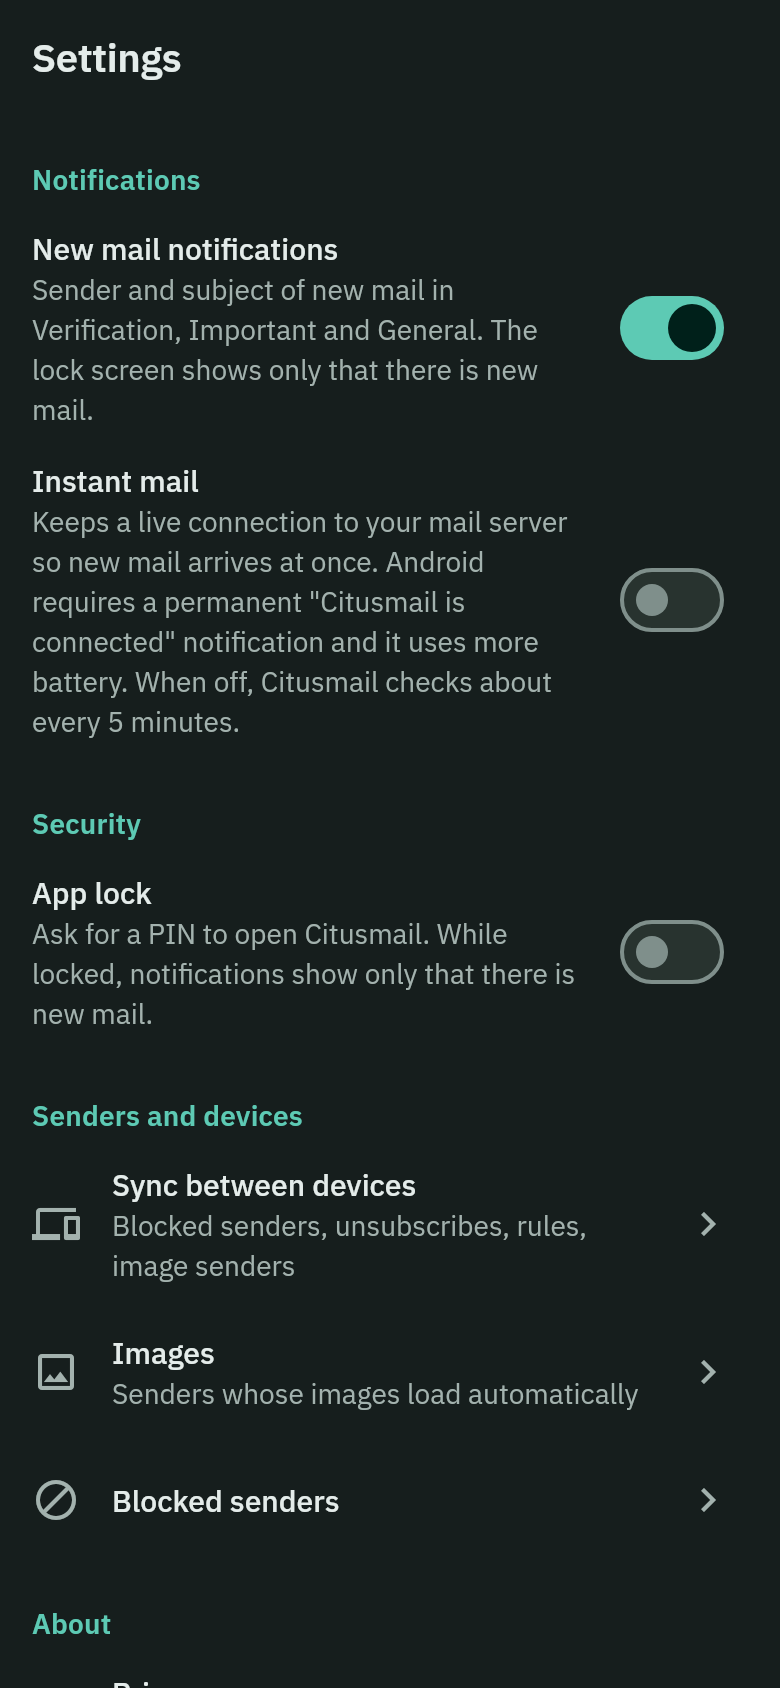
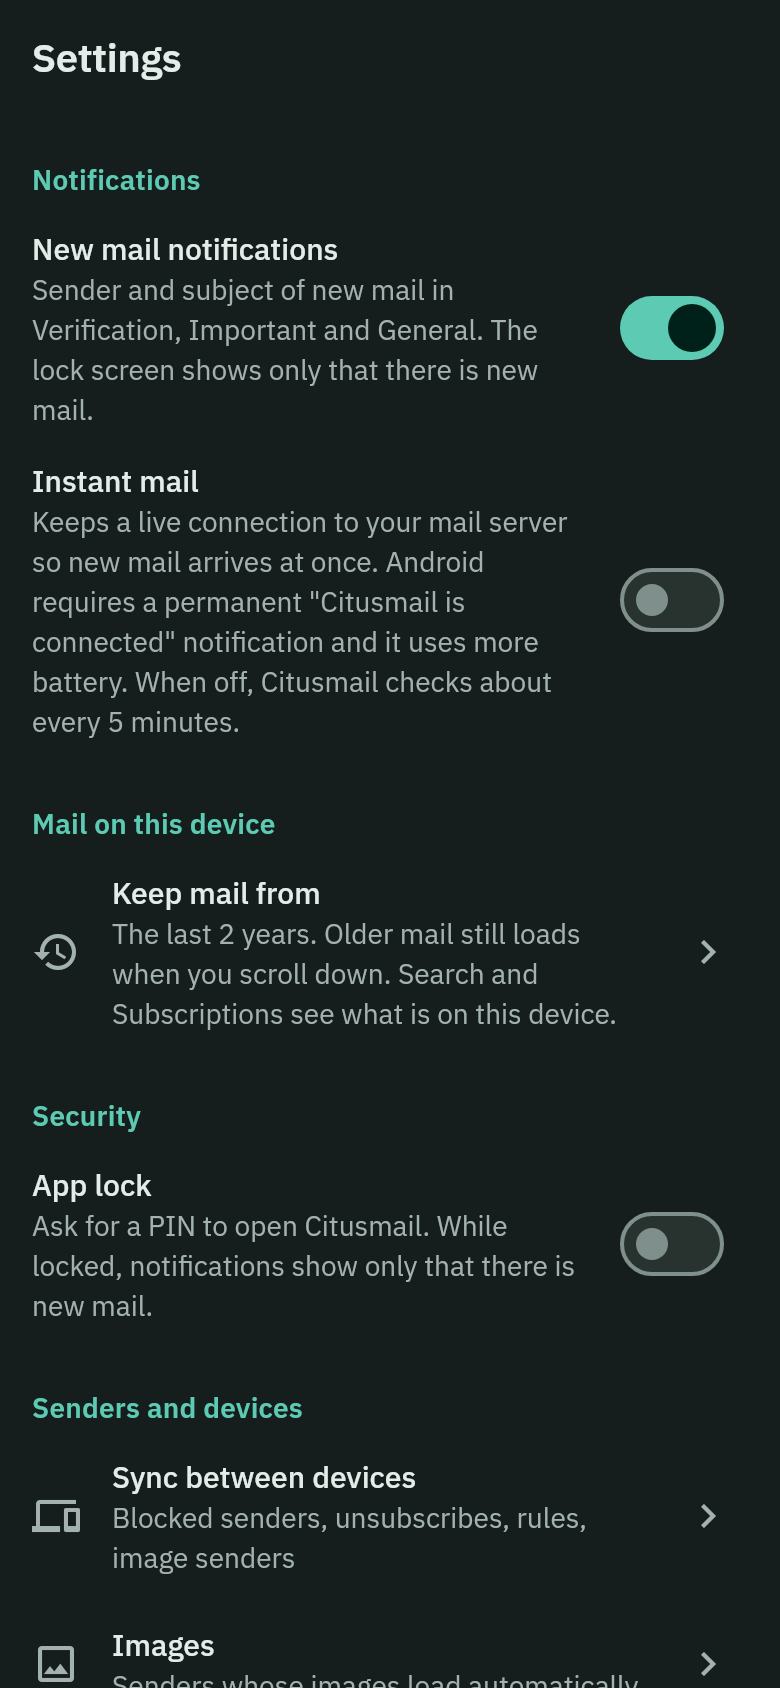
Sync: fill in older mail in the background; "Keep mail from" setting
A folder's first sync downloads its newest 500 messages, and older mail
came only by scrolling to the bottom of a list. A large Gmail inbox
showed 550 messages, and Search and Subscriptions never saw the rest.

Now each later sync also downloads up to 500 older messages per folder
(headers and previews; whole messages still download when opened), until
the folder reaches back to the date chosen in Settings > Mail on this
device > Keep mail from: the last 3 months, year, 2 years (default) or
everything. Scrolling further still loads older mail.

Older mail has lower UIDs than the new-mail mark, so it never notifies.
Integration test: syncs fill in a folder a batch at a time, then stop.

Claude-Session: https://claude.ai/code/session_014i6HAP1iNv3q6sAUqpys6p

diff --git a/packages/mail_sync/lib/src/mailbox_synchronizer.dart b/packages/mail_sync/lib/src/mailbox_synchronizer.dart
@@ -9,14 +9,53 @@ import 'summary_mapper.dart';
 
 /// Tuning for message sync.
 final class SyncSettings {
-  const SyncSettings({this.initialWindow = 500, this.fetchBatch = 100});
+  const SyncSettings({
+    this.initialWindow = 500,
+    this.fetchBatch = 100,
+    this.backfillBatch = 500,
+  });
 
-  /// Newest messages downloaded on a folder's first sync; older ones are
-  /// fetched on demand with [MailboxSynchronizer.fetchOlder].
+  /// Newest messages downloaded on a folder's first sync. Older ones
+  /// follow on later syncs, [backfillBatch] at a time, back to what
+  /// [KeepMail] says; and on demand with [MailboxSynchronizer.fetchOlder].
   final int initialWindow;
 
   /// Messages per FETCH and per stored transaction.
   final int fetchBatch;
+
+  /// Older messages downloaded per folder per sync, until the folder
+  /// reaches back to [KeepMail]'s date.
+  final int backfillBatch;
+}
+
+/// How far back mail is kept on the device (summaries: headers and a
+/// preview; whole messages download when opened). The user's choice, in
+/// the settings under [key].
+enum KeepMail {
+  threeMonths('3m', 91),
+  year('1y', 366),
+  twoYears('2y', 731),
+  everything('all', null);
+
+  const KeepMail(this.storageName, this._days);
+
+  final String storageName;
+  final int? _days;
+
+  static const key = 'sync.keepMail';
+  static const standard = KeepMail.twoYears;
+
+  static KeepMail read(MailStore store) {
+    final value = store.settings.read(key);
+    return values.firstWhere(
+      (k) => k.storageName == value,
+      orElse: () => standard,
+    );
+  }
+
+  /// The oldest date kept, or null for everything.
+  DateTime? since(DateTime now) =>
+      _days == null ? null : now.subtract(Duration(days: _days));
 }
 
 /// How a folder was synchronised.
@@ -42,21 +81,28 @@ final class MailboxSyncResult {
     this.updated = 0,
     this.removed = 0,
     this.wasReset = false,
+    this.backfilled = 0,
   });
 
   final SyncMethod method;
+
+  /// New messages.
   final int added;
+
+  /// Older messages downloaded to reach back to [KeepMail]'s date.
+  final int backfilled;
   final int updated;
   final int removed;
 
   /// The server's UIDVALIDITY changed and the cache was rebuilt.
   final bool wasReset;
 
-  bool get hasChanges => added + updated + removed > 0 || wasReset;
+  bool get hasChanges => added + updated + removed + backfilled > 0 || wasReset;
 
   @override
   String toString() =>
-      'MailboxSyncResult(${method.name}, +$added ~$updated -$removed${wasReset ? ', reset' : ''})';
+      'MailboxSyncResult(${method.name}, +$added ~$updated -$removed'
+      '${backfilled > 0 ? ' <$backfilled' : ''}${wasReset ? ', reset' : ''})';
 }
 
 /// Brings one cached folder in line with the server.
@@ -130,9 +176,11 @@ final class MailboxSynchronizer {
     };
     final added = await _fetchNew(imap, mailbox, cached, selected);
     _saveState(mailbox, selected);
+    final backfilled = await _backfill(imap, mailbox);
     return MailboxSyncResult(
       method: method,
       added: added,
+      backfilled: backfilled,
       updated: updated,
       removed: removed,
     );
@@ -157,6 +205,35 @@ final class MailboxSynchronizer {
       imap,
       mailbox,
       uids.sublist(uids.length > count ? uids.length - count : 0),
+    );
+  }
+
+  /// Older messages, newest first, back to [KeepMail]'s date (on the
+  /// server's INTERNALDATE): at most [SyncSettings.backfillBatch] a time,
+  /// so a sync stays short; the next one goes on. Nothing once the folder
+  /// reaches back far enough. Not on a folder's first sync, which shows
+  /// its newest mail first.
+  Future<int> _backfill(ImapClient imap, StoredMailbox mailbox) async {
+    final lowest = _store.messages.lowestUid(mailbox.id);
+    if (lowest == null || lowest <= 1 || settings.backfillBatch <= 0) {
+      return 0;
+    }
+    final since = KeepMail.read(_store).since(DateTime.now());
+    final range = SearchCriteria.uids(SequenceSet.range(1, lowest - 1));
+    final older = (await imap.uidSearch(
+      since == null
+          ? range
+          : SearchCriteria.and([range, SearchCriteria.since(since)]),
+    )).matches.toList();
+    if (older.isEmpty) return 0;
+    return _fetchSummaries(
+      imap,
+      mailbox,
+      older.sublist(
+        older.length > settings.backfillBatch
+            ? older.length - settings.backfillBatch
+            : 0,
+      ),
     );
   }
 

diff --git a/app/lib/src/ui/settings_page.dart b/app/lib/src/ui/settings_page.dart
@@ -161,6 +161,54 @@ final class _SettingsPageState extends State<SettingsPage> {
     }
   }
 
+  static String _keepLabel(KeepMail keep) => switch (keep) {
+    KeepMail.threeMonths => 'The last 3 months',
+    KeepMail.year => 'The last year',
+    KeepMail.twoYears => 'The last 2 years',
+    KeepMail.everything => 'Everything',
+  };
+
+  /// How far back mail is downloaded (headers and previews; whole
+  /// messages when opened). Going further back fills in over the next
+  /// checks for mail.
+  Future<void> _chooseKeepMail() async {
+    final store = widget.services.store;
+    final current = KeepMail.read(store);
+    final chosen = await showDialog<KeepMail>(
+      context: context,
+      builder: (context) => SimpleDialog(
+        title: const Text('Keep mail from'),
+        children: [
+          RadioGroup<KeepMail>(
+            groupValue: current,
+            onChanged: (k) => Navigator.pop(context, k),
+            child: Column(
+              mainAxisSize: MainAxisSize.min,
+              children: [
+                for (final k in KeepMail.values)
+                  RadioListTile<KeepMail>(
+                    value: k,
+                    title: Text(_keepLabel(k)),
+                    subtitle: k == KeepMail.everything
+                        ? const Text('Uses more space on large mailboxes')
+                        : null,
+                  ),
+              ],
+            ),
+          ),
+        ],
+      ),
+    );
+    if (chosen == null || chosen == current) return;
+    store.settings.write(KeepMail.key, chosen.storageName);
+    setState(() {});
+    try {
+      await widget.services.worker.syncNow();
+    } on SyncWorkerException {
+      // Filled in with the next check for mail.
+    }
+  }
+
   @override
   Widget build(BuildContext context) {
     final settings = widget.services.settings;
@@ -192,6 +240,18 @@ final class _SettingsPageState extends State<SettingsPage> {
               onChanged: _setInstant,
             ),
           ],
+          const _Group('Mail on this device'),
+          ListTile(
+            leading: const Icon(Icons.history),
+            title: const Text('Keep mail from'),
+            subtitle: Text(
+              '${_keepLabel(KeepMail.read(widget.services.store))}. Older mail '
+              'still loads when you scroll down. Search and Subscriptions see '
+              'what is on this device.',
+            ),
+            trailing: const Icon(Icons.chevron_right),
+            onTap: _chooseKeepMail,
+          ),
           const _Group('Security'),
           ..._lockSettings(),
           const _Group('Senders and devices'),

diff --git a/packages/mail_sync/test/integration/worker_integration_test.dart b/packages/mail_sync/test/integration/worker_integration_test.dart
@@ -125,6 +125,35 @@ void main() {
       expect(device.messages('INBOX'), hasLength(22));
     });
 
+    test('later syncs fill in older mail, a batch at a time', () async {
+      await engine.dispose();
+      engine = SyncEngine(
+        device.store,
+        DefaultMailConnector(
+          const TestCredentials(),
+          tls: servers.tls,
+          endpointFor: servers.endpointFor,
+        ),
+        settings: const SyncSettings(initialWindow: 5, backfillBatch: 10),
+      );
+      // The seeded mail is from today: any "keep" period covers it.
+      device.store.settings.write(
+        KeepMail.key,
+        KeepMail.threeMonths.storageName,
+      );
+      Future<int> backfilled() async {
+        final report = await engine.syncAccount(device.account.id);
+        return report!.mailboxes[device.mailbox('INBOX').id]!.backfilled;
+      }
+
+      expect(await backfilled(), 0, reason: 'first sync: newest only');
+      expect(device.messages('INBOX'), hasLength(5));
+      expect(await backfilled(), 10);
+      expect(await backfilled(), 7);
+      expect(await backfilled(), 0);
+      expect(device.messages('INBOX'), hasLength(22));
+    });
+
     test('several messages open over one reused connection', () async {
       await engine.syncAccount(device.account.id);
       for (final m in device.messages('INBOX')) {

diff --git a/app/test/settings_test.dart b/app/test/settings_test.dart
@@ -127,4 +127,23 @@ void main() {
       expect(find.text(shown), findsOneWidget, reason: shown);
     }
   });
+
+  testWidgets('how far back mail is kept: 2 years unless changed', (
+    tester,
+  ) async {
+    tester.view.physicalSize = const Size(800, 1600);
+    tester.view.devicePixelRatio = 1;
+    addTearDown(tester.view.reset);
+    await tester.pumpWidget(
+      MaterialApp(home: SettingsPage(services: app.services, isAndroid: false)),
+    );
+    expect(KeepMail.read(app.store), KeepMail.twoYears);
+    expect(find.textContaining('The last 2 years.'), findsOneWidget);
+    await tester.tap(find.text('Keep mail from'));
+    await tester.pumpAndSettle();
+    await tester.tap(find.text('Everything'));
+    await tester.pumpAndSettle();
+    expect(KeepMail.read(app.store), KeepMail.everything);
+    expect(find.textContaining('Everything.'), findsOneWidget);
+  });
 }

diff --git a/README.md b/README.md
@@ -66,7 +66,7 @@ ask.
   &nbsp;
   <img src="docs/screenshots/readme_phone_compose.png" alt="Writing on a phone: To, Subject and the message, with Close, read receipt, Attach, Discard and Send at the bottom" width="24%">
   &nbsp;
-  <img src="docs/screenshots/readme_phone_settings.png" alt="Settings on a phone: notifications, Instant mail, app lock, sync between devices, images and blocked senders" width="24%">
+  <img src="docs/screenshots/readme_phone_settings.png" alt="Settings on a phone: notifications, Instant mail, how far back mail is kept, app lock, sync between devices" width="24%">
 </p>
 
 On phones, the menu, search, New message, the message actions and Send
